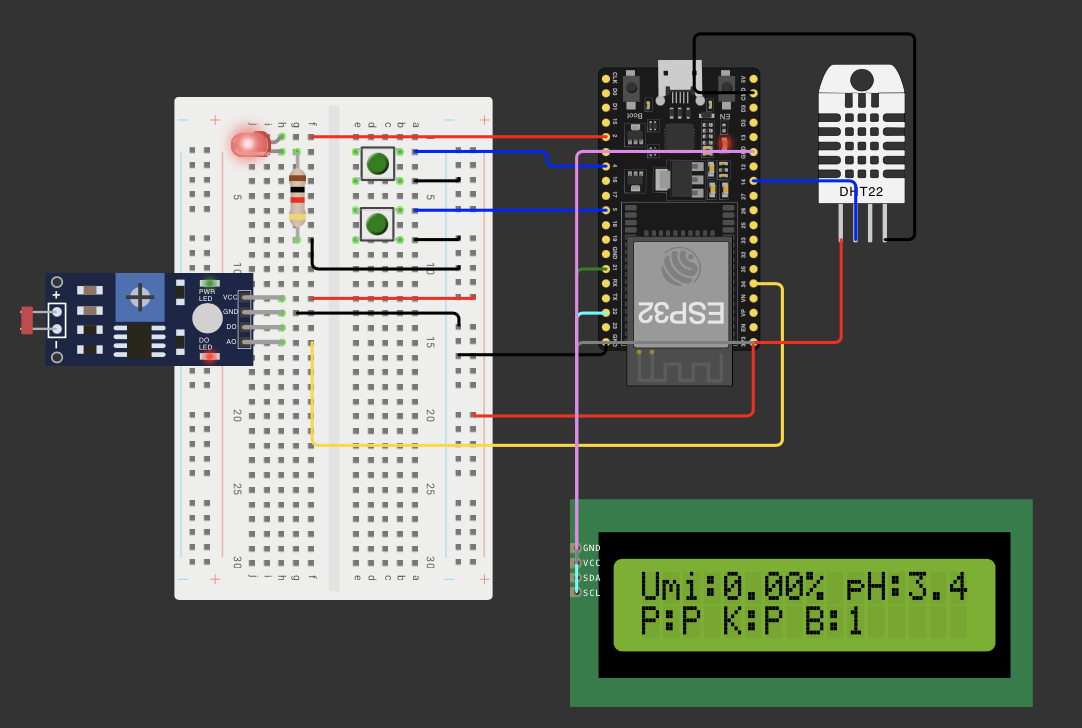
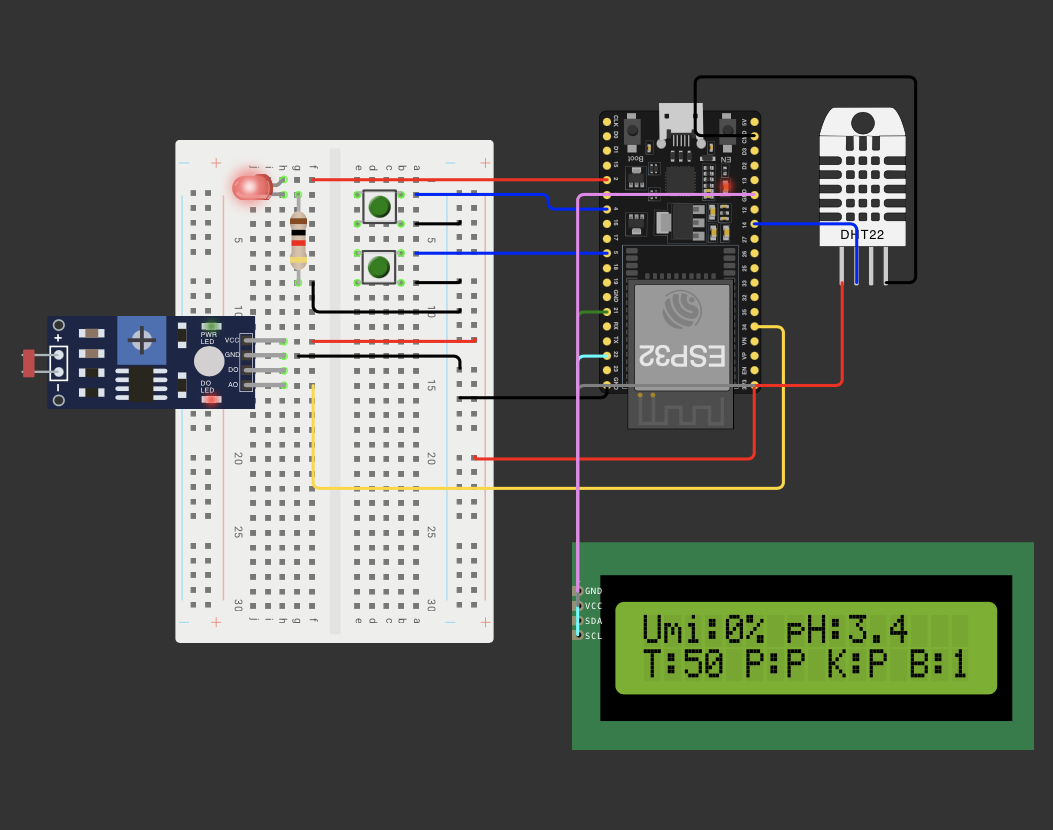
Adding temperature info to serial plotter

diff --git a/src/wokwi/src/main.cpp b/src/wokwi/src/main.cpp
@@ -54,10 +54,12 @@ void loop() {
 
     float phSimulated = (phRaw / 4095.0f) * 14.0f;
     float humidity = dht.readHumidity();
+    float temperature = dht.readTemperature();
 
-    if (isnan(humidity)) {
-      Serial.println("Falha ao ler umidade!");
-      humidity = 0.0f;
+
+    if (isnan(humidity) || isnan(temperature)) {
+      Serial.println("Falha ao ler sensores de umidade e temperatura!");
+      return; // Sai do loop se a leitura falhar
     }
 
     // Otimização: char para status simples
@@ -74,12 +76,15 @@ void loop() {
     Serial.print((uint8_t)humidity); // uint8_t suficiente para 0-100%
     Serial.print("% pH: ");
     Serial.print(phSimulated, 1);
+    Serial.print(" Temp: ");
+    Serial.print((uint8_t)temperature);
+    Serial.print("C ");
     Serial.print(" P: ");
     Serial.print(phosphorusStatus);
     Serial.print(" K: ");
     Serial.print(potassiumStatus);
     Serial.print(" B: ");
-    Serial.println(shouldIrrigate ? "1 (Irrigando)" : "0 (Parado)");    
+    Serial.println(shouldIrrigate ? "1" : "0");    
 
     // Exibe informações no LCD
     lcd.clear();
@@ -90,7 +95,9 @@ void loop() {
     lcd.print(phSimulated, 1);
 
     lcd.setCursor(0, 1);
-    lcd.print("P:");
+    lcd.print("T:");
+    lcd.print((uint8_t)temperature);
+    lcd.print(" P:");
     lcd.print(phosphorusStatus);
     lcd.print(" K:");
     lcd.print(potassiumStatus);
